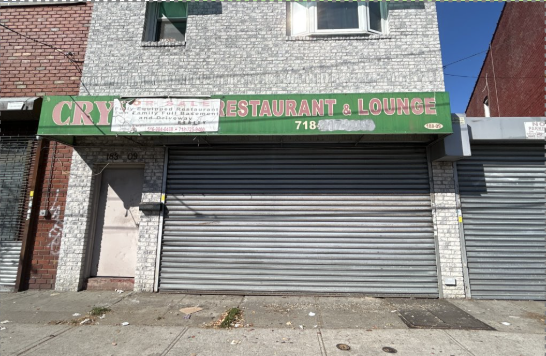
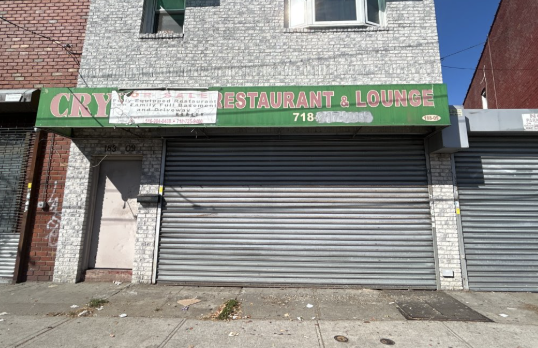
Add roadmap

diff --git a/index.html b/index.html
@@ -497,6 +497,54 @@
         .merchant-charts .chart-title {
             margin-bottom: 1rem;
         }
+        .roadmap-section {
+            background-color: #f8f9fa;
+            padding: 4rem 0;
+        }
+        .roadmap-card {
+            background: white;
+            border-radius: 15px;
+            padding: 2rem;
+            height: 100%;
+            box-shadow: 0 4px 15px rgba(0,0,0,0.05);
+            transition: transform 0.3s ease, box-shadow 0.3s ease;
+        }
+        .roadmap-card:hover {
+            transform: translateY(-5px);
+            box-shadow: 0 8px 25px rgba(0,0,0,0.1);
+        }
+        .roadmap-icon {
+            font-size: 2.5rem;
+            color: #3a9f54;
+            margin-bottom: 1.5rem;
+            text-align: center;
+        }
+        .roadmap-card h3 {
+            color: #3a9f54;
+            font-size: 1.4rem;
+            margin-bottom: 1rem;
+            text-align: center;
+        }
+        .roadmap-card ul {
+            list-style: none;
+            padding-left: 0;
+            margin-bottom: 0;
+        }
+        .roadmap-card li {
+            margin-bottom: 0.8rem;
+            padding-left: 1.5rem;
+            position: relative;
+            color: #555;
+        }
+        .roadmap-card li:before {
+            content: "→";
+            position: absolute;
+            left: 0;
+            color: #83c143;
+        }
+        .roadmap-card li:last-child {
+            margin-bottom: 0;
+        }
     </style>
 </head>
 <body>
@@ -623,17 +671,17 @@
 
                         <!-- Vacancy Images -->
                         <div class="col-lg-6 mb-4">
-                            <div class="chart-container">
-                                <div class="chart-wrapper">
-                                    <img src="assets/vacancy1.png" alt="Vacancy Example 1" style="width: 100%; height: auto; border-radius: 8px;">
+                            <div class="chart-container" style="padding: 0; overflow: hidden;">
+                                <div class="chart-wrapper" style="padding: 0; display: flex; justify-content: center;">
+                                    <img src="assets/vacancy1.png" alt="Vacancy Example 1" style="width: 100%; max-width: 400px; height: 300px; object-fit: cover; border-radius: 8px; transition: transform 0.3s ease; box-shadow: 0 4px 15px rgba(0,0,0,0.1);">
                                 </div>
                             </div>
                         </div>
 
                         <div class="col-lg-6 mb-4">
-                            <div class="chart-container">
-                                <div class="chart-wrapper">
-                                    <img src="assets/vacancy2.png" alt="Vacancy Example 2" style="width: 100%; height: auto; border-radius: 8px;">
+                            <div class="chart-container" style="padding: 0; overflow: hidden;">
+                                <div class="chart-wrapper" style="padding: 0; display: flex; justify-content: center;">
+                                    <img src="assets/vacancy2.png" alt="Vacancy Example 2" style="width: 100%; max-width: 400px; height: 300px; object-fit: cover; border-radius: 8px; transition: transform 0.3s ease; box-shadow: 0 4px 15px rgba(0,0,0,0.1);">
                                 </div>
                             </div>
                         </div>
@@ -951,6 +999,92 @@
         </div>
     </div>
 </section>
+
+<!-- Roadmap Section -->
+<section class="roadmap-section py-5">
+    <div class="container">
+        <h2 class="section-title">Future Development Roadmap</h2>
+        <div class="row justify-content-center">
+            <div class="col-lg-4 col-md-6 mb-4">
+                <div class="roadmap-card">
+                    <div class="roadmap-icon">
+                        <i class="fas fa-map-marked-alt"></i>
+                    </div>
+                    <h3>Interactive Merchant Map</h3>
+                    <ul>
+                        <li>Click-and-view merchant information</li>
+                        <li>Filter by business type</li>
+                        <li>Business hours and contact details</li>
+                        <li>Vacancy opportunities visualization</li>
+                    </ul>
+                </div>
+            </div>
+            
+            <div class="col-lg-4 col-md-6 mb-4">
+                <div class="roadmap-card">
+                    <div class="roadmap-icon">
+                        <i class="fas fa-database"></i>
+                    </div>
+                    <h3>Data Portal</h3>
+                    <ul>
+                        <li>Searchable CDNA database</li>
+                        <li>Downloadable reports and datasets</li>
+                        <li>Custom data visualization tools</li>
+                        <li>Year-over-year comparisons</li>
+                    </ul>
+                </div>
+            </div>
+            
+            <div class="col-lg-4 col-md-6 mb-4">
+                <div class="roadmap-card">
+                    <div class="roadmap-icon">
+                        <i class="fas fa-users"></i>
+                    </div>
+                    <h3>Community Features</h3>
+                    <ul>
+                        <li>Merchant success stories</li>
+                        <li>Event calendar for the district</li>
+                        <li>Business opportunity listings</li>
+                        <li>Community feedback portal</li>
+                    </ul>
+                </div>
+            </div>
+
+            <div class="col-lg-4 col-md-6 mb-4">
+                <div class="roadmap-card">
+                    <div class="roadmap-icon">
+                        <i class="fas fa-chart-line"></i>
+                    </div>
+                    <h3>Real-Time Analytics</h3>
+                    <ul>
+                        <li>Live foot traffic data</li>
+                        <li>Business performance metrics</li>
+                        <li>Economic impact tracking</li>
+                        <li>Trend analysis dashboard</li>
+                    </ul>
+                </div>
+            </div>
+
+            <div class="col-lg-4 col-md-6 mb-4">
+                <div class="roadmap-card">
+                    <div class="roadmap-icon">
+                        <i class="fas fa-hands-helping"></i>
+                    </div>
+                    <h3>Resource Hub</h3>
+                    <ul>
+                        <li>Business development guides</li>
+                        <li>Grant application assistance</li>
+                        <li>M/WBE certification help</li>
+                        <li>Networking opportunities</li>
+                    </ul>
+                </div>
+            </div>
+        </div>
+    </div>
+</section>
+
+<!-- Font Awesome -->
+<link rel="stylesheet" href="https://cdnjs.cloudflare.com/ajax/libs/font-awesome/5.15.4/css/all.min.css">
 
 <!-- Footer -->
 <footer>
